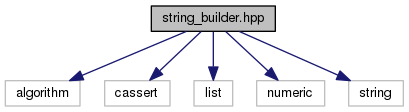
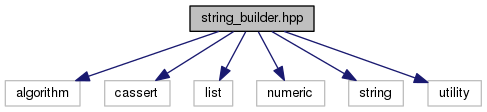
:bulb: Add doc for rvalue version of add

Changed region(s): [[0.0, 0.2679, 0.8215, 0.9643], [0.3521, 0.0268, 0.6748, 0.2946], [0.6455, 0.375, 0.9976, 0.9643]]

diff --git a/doc/html/string__builder_8hpp_source.html b/doc/html/string__builder_8hpp_source.html
@@ -63,12 +63,13 @@ $(function() {
 <div class="title">string_builder.hpp</div>  </div>
 </div><!--header-->
 <div class="contents">
-<a href="string__builder_8hpp.html">Go to the documentation of this file.</a><div class="fragment"><div class="line"><a name="l00001"></a><span class="lineno">    1</span>&#160;<span class="preprocessor">#ifndef BOSSWESTFALEN_STRING_BUILDER_HPP</span></div><div class="line"><a name="l00002"></a><span class="lineno">    2</span>&#160;<span class="preprocessor">#define BOSSWESTFALEN_STRING_BUILDER_HPP</span></div><div class="line"><a name="l00003"></a><span class="lineno">    3</span>&#160;</div><div class="line"><a name="l00034"></a><span class="lineno">   34</span>&#160;<span class="preprocessor">#include &lt;algorithm&gt;</span></div><div class="line"><a name="l00035"></a><span class="lineno">   35</span>&#160;<span class="preprocessor">#include &lt;cassert&gt;</span></div><div class="line"><a name="l00036"></a><span class="lineno">   36</span>&#160;<span class="preprocessor">#include &lt;list&gt;</span></div><div class="line"><a name="l00037"></a><span class="lineno">   37</span>&#160;<span class="preprocessor">#include &lt;numeric&gt;</span></div><div class="line"><a name="l00038"></a><span class="lineno">   38</span>&#160;<span class="preprocessor">#include &lt;string&gt;</span></div><div class="line"><a name="l00039"></a><span class="lineno">   39</span>&#160;</div><div class="line"><a name="l00040"></a><span class="lineno">   40</span>&#160;</div><div class="line"><a name="l00045"></a><span class="lineno"><a class="line" href="namespacebosswestfalen.html">   45</a></span>&#160;<span class="keyword">namespace </span><a class="code" href="namespacebosswestfalen.html">bosswestfalen</a></div><div class="line"><a name="l00046"></a><span class="lineno">   46</span>&#160;{</div><div class="line"><a name="l00047"></a><span class="lineno">   47</span>&#160;</div><div class="line"><a name="l00058"></a><span class="lineno"><a class="line" href="classbosswestfalen_1_1string__builder.html">   58</a></span>&#160;<span class="keyword">class </span><a class="code" href="classbosswestfalen_1_1string__builder.html">string_builder</a> final</div><div class="line"><a name="l00059"></a><span class="lineno">   59</span>&#160;{</div><div class="line"><a name="l00060"></a><span class="lineno">   60</span>&#160;  <span class="keyword">public</span>:</div><div class="line"><a name="l00062"></a><span class="lineno">   62</span>&#160;    <a class="code" href="classbosswestfalen_1_1string__builder.html#a1975a017254e4ec31b74cc4358bc7108">string_builder</a>() = <span class="keywordflow">default</span>;</div><div class="line"><a name="l00063"></a><span class="lineno">   63</span>&#160;</div><div class="line"><a name="l00065"></a><span class="lineno">   65</span>&#160;    <a class="code" href="classbosswestfalen_1_1string__builder.html#ad6b200758f49814ac27337fc5fcf96e9">~string_builder</a>() = <span class="keywordflow">default</span>;</div><div class="line"><a name="l00066"></a><span class="lineno">   66</span>&#160;</div><div class="line"><a name="l00076"></a><span class="lineno"><a class="line" href="classbosswestfalen_1_1string__builder.html#addc3aa9292527892a1ab9a57e27acb92">   76</a></span>&#160;    <span class="keywordtype">void</span> <a class="code" href="classbosswestfalen_1_1string__builder.html#addc3aa9292527892a1ab9a57e27acb92">add</a>(<span class="keyword">const</span> std::string&amp; input)</div><div class="line"><a name="l00077"></a><span class="lineno">   77</span>&#160;    {</div><div class="line"><a name="l00078"></a><span class="lineno">   78</span>&#160;        storage.push_back(input);</div><div class="line"><a name="l00079"></a><span class="lineno">   79</span>&#160;    }</div><div class="line"><a name="l00080"></a><span class="lineno">   80</span>&#160;</div><div class="line"><a name="l00094"></a><span class="lineno"><a class="line" href="classbosswestfalen_1_1string__builder.html#a1080be417923538a429a42276c551186">   94</a></span>&#160;    std::string <a class="code" href="classbosswestfalen_1_1string__builder.html#a1080be417923538a429a42276c551186">build</a>()<span class="keyword"> const</span></div><div class="line"><a name="l00095"></a><span class="lineno">   95</span>&#160;<span class="keyword">    </span>{</div><div class="line"><a name="l00096"></a><span class="lineno">   96</span>&#160;        std::string result;</div><div class="line"><a name="l00097"></a><span class="lineno">   97</span>&#160;        <span class="keyword">using</span> size_type = std::string::size_type;</div><div class="line"><a name="l00098"></a><span class="lineno">   98</span>&#160;        <span class="keyword">auto</span> op = [](<span class="keyword">const</span> size_type size, <span class="keyword">const</span> std::string&amp; element)</div><div class="line"><a name="l00099"></a><span class="lineno">   99</span>&#160;        {</div><div class="line"><a name="l00100"></a><span class="lineno">  100</span>&#160;            <span class="keywordflow">return</span> size + element.size();</div><div class="line"><a name="l00101"></a><span class="lineno">  101</span>&#160;        };</div><div class="line"><a name="l00102"></a><span class="lineno">  102</span>&#160;</div><div class="line"><a name="l00103"></a><span class="lineno">  103</span>&#160;        <span class="keyword">const</span> <span class="keyword">auto</span> size = std::accumulate(storage.cbegin(), storage.cend(), <span class="keyword">static_cast&lt;</span>size_type<span class="keyword">&gt;</span> (0), op);</div><div class="line"><a name="l00104"></a><span class="lineno">  104</span>&#160;        result.reserve(size);</div><div class="line"><a name="l00105"></a><span class="lineno">  105</span>&#160;        std::for_each(storage.cbegin(), storage.cend(), [&amp;result](<span class="keyword">const</span> <span class="keyword">auto</span>&amp; element)</div><div class="line"><a name="l00106"></a><span class="lineno">  106</span>&#160;        {</div><div class="line"><a name="l00107"></a><span class="lineno">  107</span>&#160;            result.append(element);</div><div class="line"><a name="l00108"></a><span class="lineno">  108</span>&#160;        });</div><div class="line"><a name="l00109"></a><span class="lineno">  109</span>&#160;        <span class="keywordflow">return</span> result;</div><div class="line"><a name="l00110"></a><span class="lineno">  110</span>&#160;    }</div><div class="line"><a name="l00111"></a><span class="lineno">  111</span>&#160;</div><div class="line"><a name="l00112"></a><span class="lineno">  112</span>&#160;  <span class="keyword">private</span>:</div><div class="line"><a name="l00115"></a><span class="lineno">  115</span>&#160;    std::list&lt;std::string&gt; storage{};</div><div class="line"><a name="l00116"></a><span class="lineno">  116</span>&#160;</div><div class="line"><a name="l00117"></a><span class="lineno">  117</span>&#160;};</div><div class="line"><a name="l00118"></a><span class="lineno">  118</span>&#160;</div><div class="line"><a name="l00119"></a><span class="lineno">  119</span>&#160;}</div><div class="line"><a name="l00120"></a><span class="lineno">  120</span>&#160;</div><div class="line"><a name="l00121"></a><span class="lineno">  121</span>&#160;<span class="preprocessor">#endif</span></div><div class="line"><a name="l00122"></a><span class="lineno">  122</span>&#160;</div><div class="ttc" id="namespacebosswestfalen_html"><div class="ttname"><a href="namespacebosswestfalen.html">bosswestfalen</a></div><div class="ttdoc">Bosswestfalen&amp;#39;s namespace. </div><div class="ttdef"><b>Definition:</b> string_builder.hpp:45</div></div>
+<a href="string__builder_8hpp.html">Go to the documentation of this file.</a><div class="fragment"><div class="line"><a name="l00001"></a><span class="lineno">    1</span>&#160;<span class="preprocessor">#ifndef BOSSWESTFALEN_STRING_BUILDER_HPP</span></div><div class="line"><a name="l00002"></a><span class="lineno">    2</span>&#160;<span class="preprocessor">#define BOSSWESTFALEN_STRING_BUILDER_HPP</span></div><div class="line"><a name="l00003"></a><span class="lineno">    3</span>&#160;</div><div class="line"><a name="l00034"></a><span class="lineno">   34</span>&#160;<span class="preprocessor">#include &lt;algorithm&gt;</span></div><div class="line"><a name="l00035"></a><span class="lineno">   35</span>&#160;<span class="preprocessor">#include &lt;cassert&gt;</span></div><div class="line"><a name="l00036"></a><span class="lineno">   36</span>&#160;<span class="preprocessor">#include &lt;list&gt;</span></div><div class="line"><a name="l00037"></a><span class="lineno">   37</span>&#160;<span class="preprocessor">#include &lt;numeric&gt;</span></div><div class="line"><a name="l00038"></a><span class="lineno">   38</span>&#160;<span class="preprocessor">#include &lt;string&gt;</span></div><div class="line"><a name="l00039"></a><span class="lineno">   39</span>&#160;<span class="preprocessor">#include &lt;utility&gt;</span></div><div class="line"><a name="l00040"></a><span class="lineno">   40</span>&#160;</div><div class="line"><a name="l00041"></a><span class="lineno">   41</span>&#160;</div><div class="line"><a name="l00046"></a><span class="lineno"><a class="line" href="namespacebosswestfalen.html">   46</a></span>&#160;<span class="keyword">namespace </span><a class="code" href="namespacebosswestfalen.html">bosswestfalen</a></div><div class="line"><a name="l00047"></a><span class="lineno">   47</span>&#160;{</div><div class="line"><a name="l00048"></a><span class="lineno">   48</span>&#160;</div><div class="line"><a name="l00057"></a><span class="lineno"><a class="line" href="classbosswestfalen_1_1string__builder.html">   57</a></span>&#160;<span class="keyword">class </span><a class="code" href="classbosswestfalen_1_1string__builder.html">string_builder</a> final</div><div class="line"><a name="l00058"></a><span class="lineno">   58</span>&#160;{</div><div class="line"><a name="l00059"></a><span class="lineno">   59</span>&#160;  <span class="keyword">public</span>:</div><div class="line"><a name="l00061"></a><span class="lineno">   61</span>&#160;    <a class="code" href="classbosswestfalen_1_1string__builder.html#a1975a017254e4ec31b74cc4358bc7108">string_builder</a>() = <span class="keywordflow">default</span>;</div><div class="line"><a name="l00062"></a><span class="lineno">   62</span>&#160;</div><div class="line"><a name="l00064"></a><span class="lineno">   64</span>&#160;    <a class="code" href="classbosswestfalen_1_1string__builder.html#ad6b200758f49814ac27337fc5fcf96e9">~string_builder</a>() = <span class="keywordflow">default</span>;</div><div class="line"><a name="l00065"></a><span class="lineno">   65</span>&#160;</div><div class="line"><a name="l00073"></a><span class="lineno"><a class="line" href="classbosswestfalen_1_1string__builder.html#a50de56cd18aa302fa85b87812e2d063e">   73</a></span>&#160;    <span class="keywordtype">void</span> <a class="code" href="classbosswestfalen_1_1string__builder.html#a50de56cd18aa302fa85b87812e2d063e">add</a>(std::string <span class="keyword">const</span>&amp; input)</div><div class="line"><a name="l00074"></a><span class="lineno">   74</span>&#160;    {</div><div class="line"><a name="l00075"></a><span class="lineno">   75</span>&#160;        storage.push_back(std::move(input));</div><div class="line"><a name="l00076"></a><span class="lineno">   76</span>&#160;    }</div><div class="line"><a name="l00077"></a><span class="lineno">   77</span>&#160;</div><div class="line"><a name="l00081"></a><span class="lineno"><a class="line" href="classbosswestfalen_1_1string__builder.html#acbc615605a9a49a9292c56b61d0d7063">   81</a></span>&#160;    <span class="keywordtype">void</span> <a class="code" href="classbosswestfalen_1_1string__builder.html#acbc615605a9a49a9292c56b61d0d7063">add</a>(std::string&amp;&amp; input)</div><div class="line"><a name="l00082"></a><span class="lineno">   82</span>&#160;    {</div><div class="line"><a name="l00083"></a><span class="lineno">   83</span>&#160;        storage.emplace_back(std::move(input));</div><div class="line"><a name="l00084"></a><span class="lineno">   84</span>&#160;    }</div><div class="line"><a name="l00085"></a><span class="lineno">   85</span>&#160;</div><div class="line"><a name="l00101"></a><span class="lineno"><a class="line" href="classbosswestfalen_1_1string__builder.html#a1080be417923538a429a42276c551186">  101</a></span>&#160;    std::string <a class="code" href="classbosswestfalen_1_1string__builder.html#a1080be417923538a429a42276c551186">build</a>()<span class="keyword"> const</span></div><div class="line"><a name="l00102"></a><span class="lineno">  102</span>&#160;<span class="keyword">    </span>{</div><div class="line"><a name="l00103"></a><span class="lineno">  103</span>&#160;        std::string result;</div><div class="line"><a name="l00104"></a><span class="lineno">  104</span>&#160;        <span class="keyword">using</span> size_type = std::string::size_type;</div><div class="line"><a name="l00105"></a><span class="lineno">  105</span>&#160;        <span class="keyword">auto</span> op{[](size_type <span class="keyword">const</span> size, std::string <span class="keyword">const</span>&amp; element)</div><div class="line"><a name="l00106"></a><span class="lineno">  106</span>&#160;        {</div><div class="line"><a name="l00107"></a><span class="lineno">  107</span>&#160;            <span class="keywordflow">return</span> size + element.size();</div><div class="line"><a name="l00108"></a><span class="lineno">  108</span>&#160;        }};</div><div class="line"><a name="l00109"></a><span class="lineno">  109</span>&#160;</div><div class="line"><a name="l00110"></a><span class="lineno">  110</span>&#160;        <span class="keyword">auto</span> <span class="keyword">const</span> size{std::accumulate(storage.cbegin(), storage.cend(), <span class="keyword">static_cast&lt;</span>size_type<span class="keyword">&gt;</span> (0), op)};</div><div class="line"><a name="l00111"></a><span class="lineno">  111</span>&#160;        result.reserve(size);</div><div class="line"><a name="l00112"></a><span class="lineno">  112</span>&#160;        std::for_each(storage.cbegin(), storage.cend(), [&amp;result](<span class="keyword">auto</span> <span class="keyword">const</span>&amp; element)</div><div class="line"><a name="l00113"></a><span class="lineno">  113</span>&#160;        {</div><div class="line"><a name="l00114"></a><span class="lineno">  114</span>&#160;            result.append(element);</div><div class="line"><a name="l00115"></a><span class="lineno">  115</span>&#160;        });</div><div class="line"><a name="l00116"></a><span class="lineno">  116</span>&#160;        <span class="keywordflow">return</span> result;</div><div class="line"><a name="l00117"></a><span class="lineno">  117</span>&#160;    }</div><div class="line"><a name="l00118"></a><span class="lineno">  118</span>&#160;</div><div class="line"><a name="l00119"></a><span class="lineno">  119</span>&#160;  <span class="keyword">private</span>:</div><div class="line"><a name="l00122"></a><span class="lineno">  122</span>&#160;    std::list&lt;std::string&gt; storage{};</div><div class="line"><a name="l00123"></a><span class="lineno">  123</span>&#160;</div><div class="line"><a name="l00124"></a><span class="lineno">  124</span>&#160;};</div><div class="line"><a name="l00125"></a><span class="lineno">  125</span>&#160;</div><div class="line"><a name="l00126"></a><span class="lineno">  126</span>&#160;}</div><div class="line"><a name="l00127"></a><span class="lineno">  127</span>&#160;</div><div class="line"><a name="l00128"></a><span class="lineno">  128</span>&#160;<span class="preprocessor">#endif</span></div><div class="line"><a name="l00129"></a><span class="lineno">  129</span>&#160;</div><div class="ttc" id="namespacebosswestfalen_html"><div class="ttname"><a href="namespacebosswestfalen.html">bosswestfalen</a></div><div class="ttdoc">Bosswestfalen&amp;#39;s namespace. </div><div class="ttdef"><b>Definition:</b> string_builder.hpp:46</div></div>
 <div class="ttc" id="classbosswestfalen_1_1string__builder_html_a1975a017254e4ec31b74cc4358bc7108"><div class="ttname"><a href="classbosswestfalen_1_1string__builder.html#a1975a017254e4ec31b74cc4358bc7108">bosswestfalen::string_builder::string_builder</a></div><div class="ttdeci">string_builder()=default</div><div class="ttdoc">Default Ctor is sufficient. </div></div>
 <div class="ttc" id="classbosswestfalen_1_1string__builder_html_ad6b200758f49814ac27337fc5fcf96e9"><div class="ttname"><a href="classbosswestfalen_1_1string__builder.html#ad6b200758f49814ac27337fc5fcf96e9">bosswestfalen::string_builder::~string_builder</a></div><div class="ttdeci">~string_builder()=default</div><div class="ttdoc">Nothing special to do on destruction. </div></div>
-<div class="ttc" id="classbosswestfalen_1_1string__builder_html_a1080be417923538a429a42276c551186"><div class="ttname"><a href="classbosswestfalen_1_1string__builder.html#a1080be417923538a429a42276c551186">bosswestfalen::string_builder::build</a></div><div class="ttdeci">std::string build() const</div><div class="ttdoc">Concatenate stored strings. </div><div class="ttdef"><b>Definition:</b> string_builder.hpp:94</div></div>
-<div class="ttc" id="classbosswestfalen_1_1string__builder_html"><div class="ttname"><a href="classbosswestfalen_1_1string__builder.html">bosswestfalen::string_builder</a></div><div class="ttdoc">The string_builder allows to easily concatenate strings. </div><div class="ttdef"><b>Definition:</b> string_builder.hpp:58</div></div>
-<div class="ttc" id="classbosswestfalen_1_1string__builder_html_addc3aa9292527892a1ab9a57e27acb92"><div class="ttname"><a href="classbosswestfalen_1_1string__builder.html#addc3aa9292527892a1ab9a57e27acb92">bosswestfalen::string_builder::add</a></div><div class="ttdeci">void add(const std::string &amp;input)</div><div class="ttdoc">Add new content to the string_builder. </div><div class="ttdef"><b>Definition:</b> string_builder.hpp:76</div></div>
+<div class="ttc" id="classbosswestfalen_1_1string__builder_html_a1080be417923538a429a42276c551186"><div class="ttname"><a href="classbosswestfalen_1_1string__builder.html#a1080be417923538a429a42276c551186">bosswestfalen::string_builder::build</a></div><div class="ttdeci">std::string build() const</div><div class="ttdoc">Concatenate stored strings. </div><div class="ttdef"><b>Definition:</b> string_builder.hpp:101</div></div>
+<div class="ttc" id="classbosswestfalen_1_1string__builder_html_a50de56cd18aa302fa85b87812e2d063e"><div class="ttname"><a href="classbosswestfalen_1_1string__builder.html#a50de56cd18aa302fa85b87812e2d063e">bosswestfalen::string_builder::add</a></div><div class="ttdeci">void add(std::string const &amp;input)</div><div class="ttdoc">Add new content to the string_builder. </div><div class="ttdef"><b>Definition:</b> string_builder.hpp:73</div></div>
+<div class="ttc" id="classbosswestfalen_1_1string__builder_html"><div class="ttname"><a href="classbosswestfalen_1_1string__builder.html">bosswestfalen::string_builder</a></div><div class="ttdoc">The string_builder allows to easily concatenate strings. </div><div class="ttdef"><b>Definition:</b> string_builder.hpp:57</div></div>
+<div class="ttc" id="classbosswestfalen_1_1string__builder_html_acbc615605a9a49a9292c56b61d0d7063"><div class="ttname"><a href="classbosswestfalen_1_1string__builder.html#acbc615605a9a49a9292c56b61d0d7063">bosswestfalen::string_builder::add</a></div><div class="ttdeci">void add(std::string &amp;&amp;input)</div><div class="ttdoc">Add new content to the string_builder. </div><div class="ttdef"><b>Definition:</b> string_builder.hpp:81</div></div>
 </div><!-- fragment --></div><!-- contents -->
 <!-- start footer part -->
 <hr class="footer"/><address class="footer"><small>

diff --git a/doc/html/classbosswestfalen_1_1string__builder.html b/doc/html/classbosswestfalen_1_1string__builder.html
@@ -86,9 +86,12 @@ Public Member Functions</h2></td></tr>
 &#160;</td><td class="memItemRight" valign="bottom"><a class="el" href="classbosswestfalen_1_1string__builder.html#ad6b200758f49814ac27337fc5fcf96e9">~string_builder</a> ()=default</td></tr>
 <tr class="memdesc:ad6b200758f49814ac27337fc5fcf96e9"><td class="mdescLeft">&#160;</td><td class="mdescRight">Nothing special to do on destruction. <br /></td></tr>
 <tr class="separator:ad6b200758f49814ac27337fc5fcf96e9"><td class="memSeparator" colspan="2">&#160;</td></tr>
-<tr class="memitem:addc3aa9292527892a1ab9a57e27acb92"><td class="memItemLeft" align="right" valign="top">void&#160;</td><td class="memItemRight" valign="bottom"><a class="el" href="classbosswestfalen_1_1string__builder.html#addc3aa9292527892a1ab9a57e27acb92">add</a> (const std::string &amp;input)</td></tr>
-<tr class="memdesc:addc3aa9292527892a1ab9a57e27acb92"><td class="mdescLeft">&#160;</td><td class="mdescRight">Add new content to the <code><a class="el" href="classbosswestfalen_1_1string__builder.html" title="The string_builder allows to easily concatenate strings. ">string_builder</a></code>.  <a href="#addc3aa9292527892a1ab9a57e27acb92">More...</a><br /></td></tr>
-<tr class="separator:addc3aa9292527892a1ab9a57e27acb92"><td class="memSeparator" colspan="2">&#160;</td></tr>
+<tr class="memitem:a50de56cd18aa302fa85b87812e2d063e"><td class="memItemLeft" align="right" valign="top">void&#160;</td><td class="memItemRight" valign="bottom"><a class="el" href="classbosswestfalen_1_1string__builder.html#a50de56cd18aa302fa85b87812e2d063e">add</a> (std::string const &amp;input)</td></tr>
+<tr class="memdesc:a50de56cd18aa302fa85b87812e2d063e"><td class="mdescLeft">&#160;</td><td class="mdescRight">Add new content to the <code><a class="el" href="classbosswestfalen_1_1string__builder.html" title="The string_builder allows to easily concatenate strings. ">string_builder</a></code>.  <a href="#a50de56cd18aa302fa85b87812e2d063e">More...</a><br /></td></tr>
+<tr class="separator:a50de56cd18aa302fa85b87812e2d063e"><td class="memSeparator" colspan="2">&#160;</td></tr>
+<tr class="memitem:acbc615605a9a49a9292c56b61d0d7063"><td class="memItemLeft" align="right" valign="top">void&#160;</td><td class="memItemRight" valign="bottom"><a class="el" href="classbosswestfalen_1_1string__builder.html#acbc615605a9a49a9292c56b61d0d7063">add</a> (std::string &amp;&amp;input)</td></tr>
+<tr class="memdesc:acbc615605a9a49a9292c56b61d0d7063"><td class="mdescLeft">&#160;</td><td class="mdescRight">Add new content to the <code><a class="el" href="classbosswestfalen_1_1string__builder.html" title="The string_builder allows to easily concatenate strings. ">string_builder</a></code>.  <a href="#acbc615605a9a49a9292c56b61d0d7063">More...</a><br /></td></tr>
+<tr class="separator:acbc615605a9a49a9292c56b61d0d7063"><td class="memSeparator" colspan="2">&#160;</td></tr>
 <tr class="memitem:a1080be417923538a429a42276c551186"><td class="memItemLeft" align="right" valign="top">std::string&#160;</td><td class="memItemRight" valign="bottom"><a class="el" href="classbosswestfalen_1_1string__builder.html#a1080be417923538a429a42276c551186">build</a> () const</td></tr>
 <tr class="memdesc:a1080be417923538a429a42276c551186"><td class="mdescLeft">&#160;</td><td class="mdescRight">Concatenate stored strings.  <a href="#a1080be417923538a429a42276c551186">More...</a><br /></td></tr>
 <tr class="separator:a1080be417923538a429a42276c551186"><td class="memSeparator" colspan="2">&#160;</td></tr>
@@ -96,11 +99,10 @@ Public Member Functions</h2></td></tr>
 <a name="details" id="details"></a><h2 class="groupheader">Detailed Description</h2>
 <div class="textblock"><p>The <code><a class="el" href="classbosswestfalen_1_1string__builder.html" title="The string_builder allows to easily concatenate strings. ">string_builder</a></code> allows to easily concatenate strings. </p>
 <p>Strings are collected and concatenated on demand. Concatenating <em>a</em>, <em>b</em>, and <em>c</em> yields the string <em>abc</em>.</p>
-<dl class="section note"><dt>Note</dt><dd><code><a class="el" href="classbosswestfalen_1_1string__builder.html" title="The string_builder allows to easily concatenate strings. ">string_builder</a></code> is not thread-safe.</dd></dl>
-<dl class="todo"><dt><b><a class="el" href="todo.html#_todo000001">Todo:</a></b></dt><dd>Go into detail, when this class evolves. </dd></dl>
+<dl class="section note"><dt>Note</dt><dd><code><a class="el" href="classbosswestfalen_1_1string__builder.html" title="The string_builder allows to easily concatenate strings. ">string_builder</a></code> is not thread-safe. </dd></dl>
 </div><h2 class="groupheader">Member Function Documentation</h2>
-<a id="addc3aa9292527892a1ab9a57e27acb92"></a>
-<h2 class="memtitle"><span class="permalink"><a href="#addc3aa9292527892a1ab9a57e27acb92">&#9670;&nbsp;</a></span>add()</h2>
+<a id="a50de56cd18aa302fa85b87812e2d063e"></a>
+<h2 class="memtitle"><span class="permalink"><a href="#a50de56cd18aa302fa85b87812e2d063e">&#9670;&nbsp;</a></span>add() <span class="overload">[1/2]</span></h2>
 
 <div class="memitem">
 <div class="memproto">
@@ -111,7 +113,7 @@ Public Member Functions</h2></td></tr>
         <tr>
           <td class="memname">void bosswestfalen::string_builder::add </td>
           <td>(</td>
-          <td class="paramtype">const std::string &amp;&#160;</td>
+          <td class="paramtype">std::string const &amp;&#160;</td>
           <td class="paramname"><em>input</em></td><td>)</td>
           <td></td>
         </tr>
@@ -125,7 +127,41 @@ Public Member Functions</h2></td></tr>
 
 <p>Add new content to the <code><a class="el" href="classbosswestfalen_1_1string__builder.html" title="The string_builder allows to easily concatenate strings. ">string_builder</a></code>. </p>
 <p><em>input</em> is stored internally and will be used in <code><a class="el" href="classbosswestfalen_1_1string__builder.html#a1080be417923538a429a42276c551186" title="Concatenate stored strings. ">build()</a></code>.</p>
-<dl class="todo"><dt><b><a class="el" href="todo.html#_todo000002">Todo:</a></b></dt><dd>Other versions? (&amp;&amp;, copy)</dd></dl>
+<dl class="params"><dt>Parameters</dt><dd>
+  <table class="params">
+    <tr><td class="paramname">input</td><td>The string that will be added to the <code><a class="el" href="classbosswestfalen_1_1string__builder.html" title="The string_builder allows to easily concatenate strings. ">string_builder</a></code>'s internal storage. </td></tr>
+  </table>
+  </dd>
+</dl>
+
+</div>
+</div>
+<a id="acbc615605a9a49a9292c56b61d0d7063"></a>
+<h2 class="memtitle"><span class="permalink"><a href="#acbc615605a9a49a9292c56b61d0d7063">&#9670;&nbsp;</a></span>add() <span class="overload">[2/2]</span></h2>
+
+<div class="memitem">
+<div class="memproto">
+<table class="mlabels">
+  <tr>
+  <td class="mlabels-left">
+      <table class="memname">
+        <tr>
+          <td class="memname">void bosswestfalen::string_builder::add </td>
+          <td>(</td>
+          <td class="paramtype">std::string &amp;&amp;&#160;</td>
+          <td class="paramname"><em>input</em></td><td>)</td>
+          <td></td>
+        </tr>
+      </table>
+  </td>
+  <td class="mlabels-right">
+<span class="mlabels"><span class="mlabel">inline</span></span>  </td>
+  </tr>
+</table>
+</div><div class="memdoc">
+
+<p>Add new content to the <code><a class="el" href="classbosswestfalen_1_1string__builder.html" title="The string_builder allows to easily concatenate strings. ">string_builder</a></code>. </p>
+<p><em>input</em> is stored internally and will be used in <code><a class="el" href="classbosswestfalen_1_1string__builder.html#a1080be417923538a429a42276c551186" title="Concatenate stored strings. ">build()</a></code>.</p>
 <dl class="params"><dt>Parameters</dt><dd>
   <table class="params">
     <tr><td class="paramname">input</td><td>The string that will be added to the <code><a class="el" href="classbosswestfalen_1_1string__builder.html" title="The string_builder allows to easily concatenate strings. ">string_builder</a></code>'s internal storage. </td></tr>
@@ -161,7 +197,10 @@ Public Member Functions</h2></td></tr>
 <p>Concatenate stored strings. </p>
 <p>All strings added so far will be concatenated without any delimiter. Stored strings <em>a</em>, <em>b</em>, and <em>c</em> will result in <em>abc</em>.</p>
 <dl class="section note"><dt>Note</dt><dd>The result is not stored. Additional calls to <code><a class="el" href="classbosswestfalen_1_1string__builder.html#a1080be417923538a429a42276c551186" title="Concatenate stored strings. ">build()</a></code> will result in re-building, even if nothing changed.</dd></dl>
-<dl class="todo"><dt><b><a class="el" href="todo.html#_todo000003">Todo:</a></b></dt><dd>Include error checks.</dd></dl>
+<dl class="todo"><dt><b><a class="el" href="todo.html#_todo000001">Todo:</a></b></dt><dd><p class="startdd">Include error checks. </p>
+<p>Improvement: Return storage.front() if size == 1 </p>
+<p class="enddd">Return immediatly if storage.empty() == true</p>
+</dd></dl>
 <dl class="section return"><dt>Returns</dt><dd>The concatenation of all stored strings. </dd></dl>
 
 </div>

diff --git a/doc/html/classbosswestfalen_1_1string__builder-members.html b/doc/html/classbosswestfalen_1_1string__builder-members.html
@@ -70,10 +70,11 @@ $(function() {
 
 <p>This is the complete list of members for <a class="el" href="classbosswestfalen_1_1string__builder.html">bosswestfalen::string_builder</a>, including all inherited members.</p>
 <table class="directory">
-  <tr class="even"><td class="entry"><a class="el" href="classbosswestfalen_1_1string__builder.html#addc3aa9292527892a1ab9a57e27acb92">add</a>(const std::string &amp;input)</td><td class="entry"><a class="el" href="classbosswestfalen_1_1string__builder.html">bosswestfalen::string_builder</a></td><td class="entry"><span class="mlabel">inline</span></td></tr>
-  <tr><td class="entry"><a class="el" href="classbosswestfalen_1_1string__builder.html#a1080be417923538a429a42276c551186">build</a>() const</td><td class="entry"><a class="el" href="classbosswestfalen_1_1string__builder.html">bosswestfalen::string_builder</a></td><td class="entry"><span class="mlabel">inline</span></td></tr>
-  <tr class="even"><td class="entry"><a class="el" href="classbosswestfalen_1_1string__builder.html#a1975a017254e4ec31b74cc4358bc7108">string_builder</a>()=default</td><td class="entry"><a class="el" href="classbosswestfalen_1_1string__builder.html">bosswestfalen::string_builder</a></td><td class="entry"></td></tr>
-  <tr><td class="entry"><a class="el" href="classbosswestfalen_1_1string__builder.html#ad6b200758f49814ac27337fc5fcf96e9">~string_builder</a>()=default</td><td class="entry"><a class="el" href="classbosswestfalen_1_1string__builder.html">bosswestfalen::string_builder</a></td><td class="entry"></td></tr>
+  <tr class="even"><td class="entry"><a class="el" href="classbosswestfalen_1_1string__builder.html#a50de56cd18aa302fa85b87812e2d063e">add</a>(std::string const &amp;input)</td><td class="entry"><a class="el" href="classbosswestfalen_1_1string__builder.html">bosswestfalen::string_builder</a></td><td class="entry"><span class="mlabel">inline</span></td></tr>
+  <tr><td class="entry"><a class="el" href="classbosswestfalen_1_1string__builder.html#acbc615605a9a49a9292c56b61d0d7063">add</a>(std::string &amp;&amp;input)</td><td class="entry"><a class="el" href="classbosswestfalen_1_1string__builder.html">bosswestfalen::string_builder</a></td><td class="entry"><span class="mlabel">inline</span></td></tr>
+  <tr class="even"><td class="entry"><a class="el" href="classbosswestfalen_1_1string__builder.html#a1080be417923538a429a42276c551186">build</a>() const</td><td class="entry"><a class="el" href="classbosswestfalen_1_1string__builder.html">bosswestfalen::string_builder</a></td><td class="entry"><span class="mlabel">inline</span></td></tr>
+  <tr><td class="entry"><a class="el" href="classbosswestfalen_1_1string__builder.html#a1975a017254e4ec31b74cc4358bc7108">string_builder</a>()=default</td><td class="entry"><a class="el" href="classbosswestfalen_1_1string__builder.html">bosswestfalen::string_builder</a></td><td class="entry"></td></tr>
+  <tr class="even"><td class="entry"><a class="el" href="classbosswestfalen_1_1string__builder.html#ad6b200758f49814ac27337fc5fcf96e9">~string_builder</a>()=default</td><td class="entry"><a class="el" href="classbosswestfalen_1_1string__builder.html">bosswestfalen::string_builder</a></td><td class="entry"></td></tr>
 </table></div><!-- contents -->
 <!-- start footer part -->
 <hr class="footer"/><address class="footer"><small>

diff --git a/doc/html/todo.html b/doc/html/todo.html
@@ -64,12 +64,11 @@ $(function() {
 </div><!--header-->
 <div class="contents">
 <div class="textblock"><dl class="reflist">
-<dt><a class="anchor" id="_todo000001"></a>Class <a class="el" href="classbosswestfalen_1_1string__builder.html">bosswestfalen::string_builder</a>  </dt>
-<dd>Go into detail, when this class evolves.  </dd>
-<dt><a class="anchor" id="_todo000002"></a>Member <a class="el" href="classbosswestfalen_1_1string__builder.html#addc3aa9292527892a1ab9a57e27acb92">bosswestfalen::string_builder::add</a>  (const std::string &amp;input)</dt>
-<dd>Other versions? (&amp;&amp;, copy) </dd>
-<dt><a class="anchor" id="_todo000003"></a>Member <a class="el" href="classbosswestfalen_1_1string__builder.html#a1080be417923538a429a42276c551186">bosswestfalen::string_builder::build</a>  () const</dt>
-<dd>Include error checks.</dd>
+<dt><a class="anchor" id="_todo000001"></a>Member <a class="el" href="classbosswestfalen_1_1string__builder.html#a1080be417923538a429a42276c551186">bosswestfalen::string_builder::build</a>  () const</dt>
+<dd><p class="startdd">Include error checks. </p>
+<p>Improvement: Return storage.front() if size == 1 </p>
+<p class="enddd">Return immediatly if storage.empty() == true</p>
+</dd>
 </dl>
 </div></div><!-- contents -->
 <!-- start footer part -->

diff --git a/doc/html/functions.html b/doc/html/functions.html
@@ -61,7 +61,7 @@ $(function() {
 <div class="contents">
 <div class="textblock">Here is a list of all documented class members with links to the class documentation for each member:</div><ul>
 <li>add()
-: <a class="el" href="classbosswestfalen_1_1string__builder.html#addc3aa9292527892a1ab9a57e27acb92">bosswestfalen::string_builder</a>
+: <a class="el" href="classbosswestfalen_1_1string__builder.html#a50de56cd18aa302fa85b87812e2d063e">bosswestfalen::string_builder</a>
 </li>
 <li>build()
 : <a class="el" href="classbosswestfalen_1_1string__builder.html#a1080be417923538a429a42276c551186">bosswestfalen::string_builder</a>

diff --git a/doc/html/functions_func.html b/doc/html/functions_func.html
@@ -61,7 +61,7 @@ $(function() {
 <div class="contents">
 &#160;<ul>
 <li>add()
-: <a class="el" href="classbosswestfalen_1_1string__builder.html#addc3aa9292527892a1ab9a57e27acb92">bosswestfalen::string_builder</a>
+: <a class="el" href="classbosswestfalen_1_1string__builder.html#a50de56cd18aa302fa85b87812e2d063e">bosswestfalen::string_builder</a>
 </li>
 <li>build()
 : <a class="el" href="classbosswestfalen_1_1string__builder.html#a1080be417923538a429a42276c551186">bosswestfalen::string_builder</a>

diff --git a/doc/html/search/all_0.js b/doc/html/search/all_0.js
@@ -1,4 +1,4 @@
 var searchData=
 [
-  ['add',['add',['../classbosswestfalen_1_1string__builder.html#addc3aa9292527892a1ab9a57e27acb92',1,'bosswestfalen::string_builder']]]
+  ['add',['add',['../classbosswestfalen_1_1string__builder.html#a50de56cd18aa302fa85b87812e2d063e',1,'bosswestfalen::string_builder::add(std::string const &amp;input)'],['../classbosswestfalen_1_1string__builder.html#acbc615605a9a49a9292c56b61d0d7063',1,'bosswestfalen::string_builder::add(std::string &amp;&amp;input)']]]
 ];

diff --git a/doc/html/search/functions_0.js b/doc/html/search/functions_0.js
@@ -1,4 +1,4 @@
 var searchData=
 [
-  ['add',['add',['../classbosswestfalen_1_1string__builder.html#addc3aa9292527892a1ab9a57e27acb92',1,'bosswestfalen::string_builder']]]
+  ['add',['add',['../classbosswestfalen_1_1string__builder.html#a50de56cd18aa302fa85b87812e2d063e',1,'bosswestfalen::string_builder::add(std::string const &amp;input)'],['../classbosswestfalen_1_1string__builder.html#acbc615605a9a49a9292c56b61d0d7063',1,'bosswestfalen::string_builder::add(std::string &amp;&amp;input)']]]
 ];

diff --git a/doc/html/string__builder_8hpp.html b/doc/html/string__builder_8hpp.html
@@ -71,6 +71,7 @@ $(function() {
 <code>#include &lt;list&gt;</code><br />
 <code>#include &lt;numeric&gt;</code><br />
 <code>#include &lt;string&gt;</code><br />
+<code>#include &lt;utility&gt;</code><br />
 </div><div class="textblock"><div class="dynheader">
 Include dependency graph for string_builder.hpp:</div>
 <div class="dyncontent">
